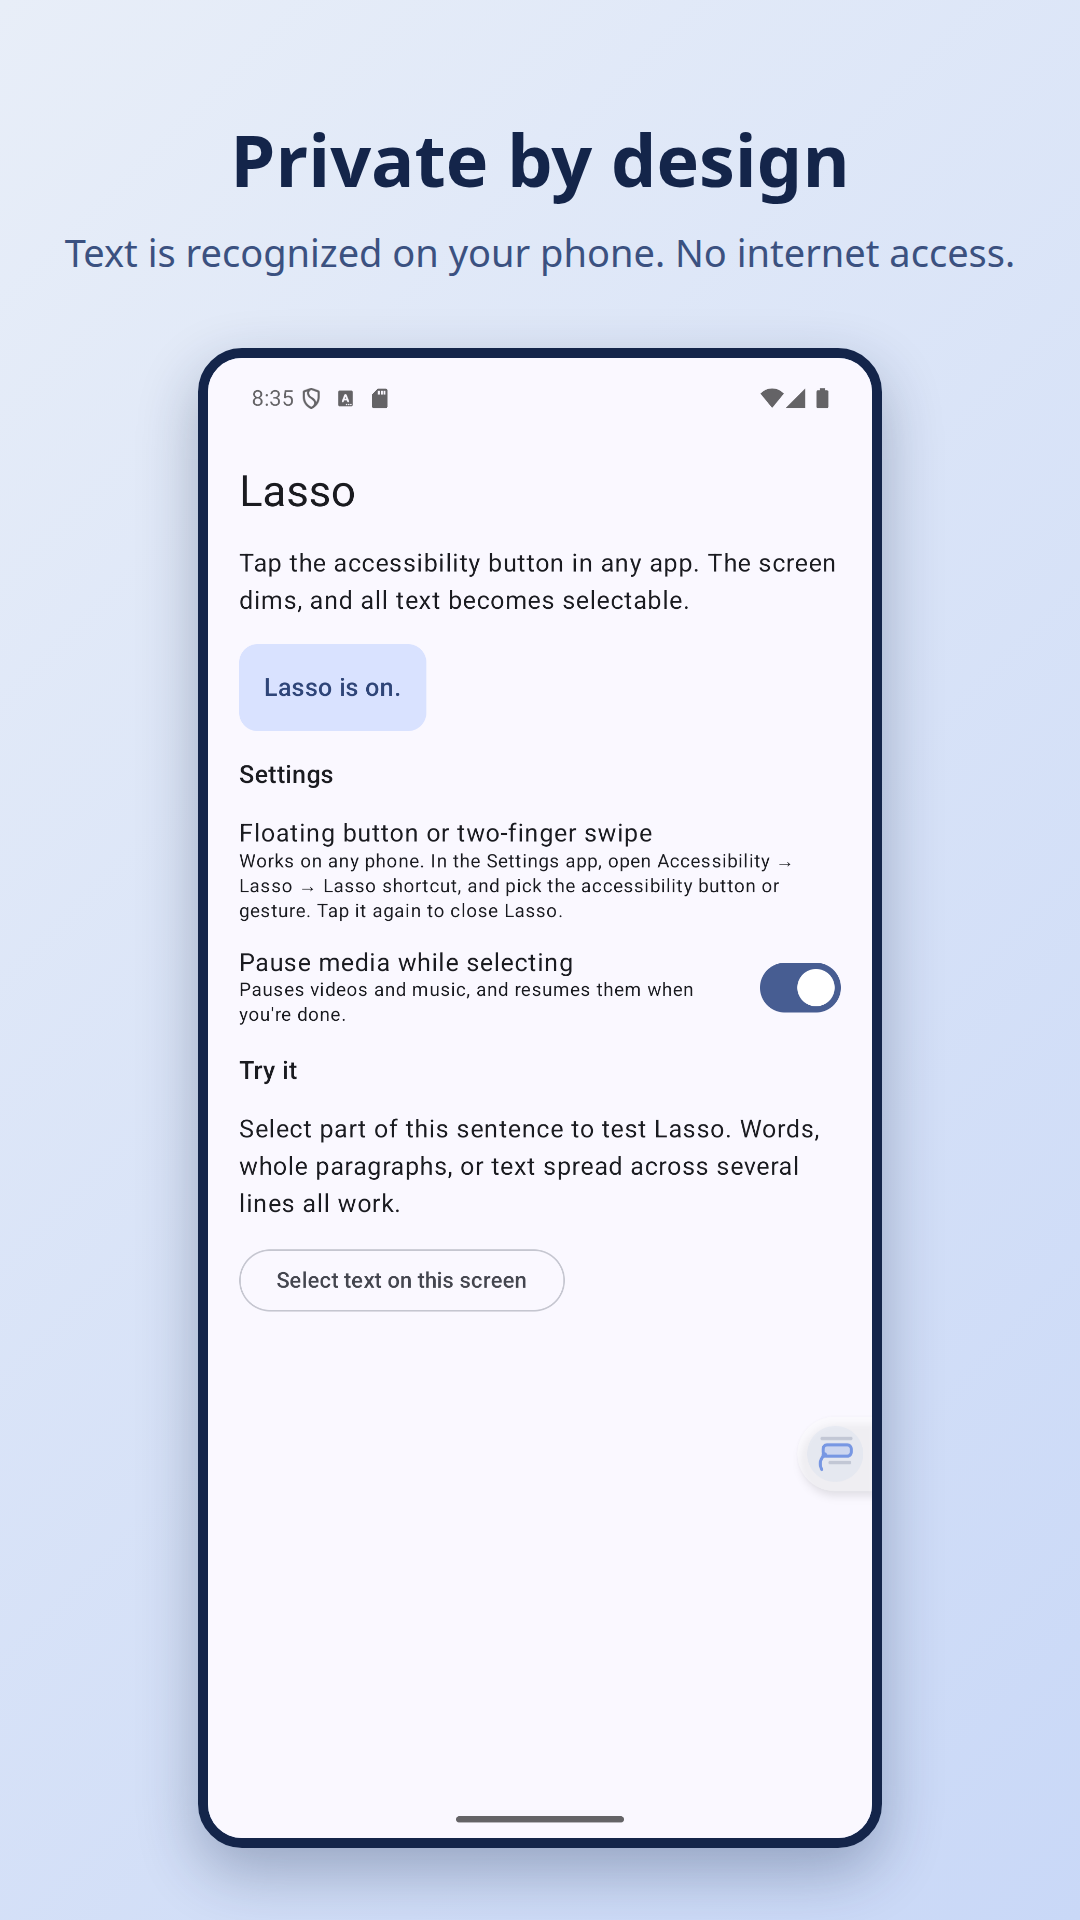
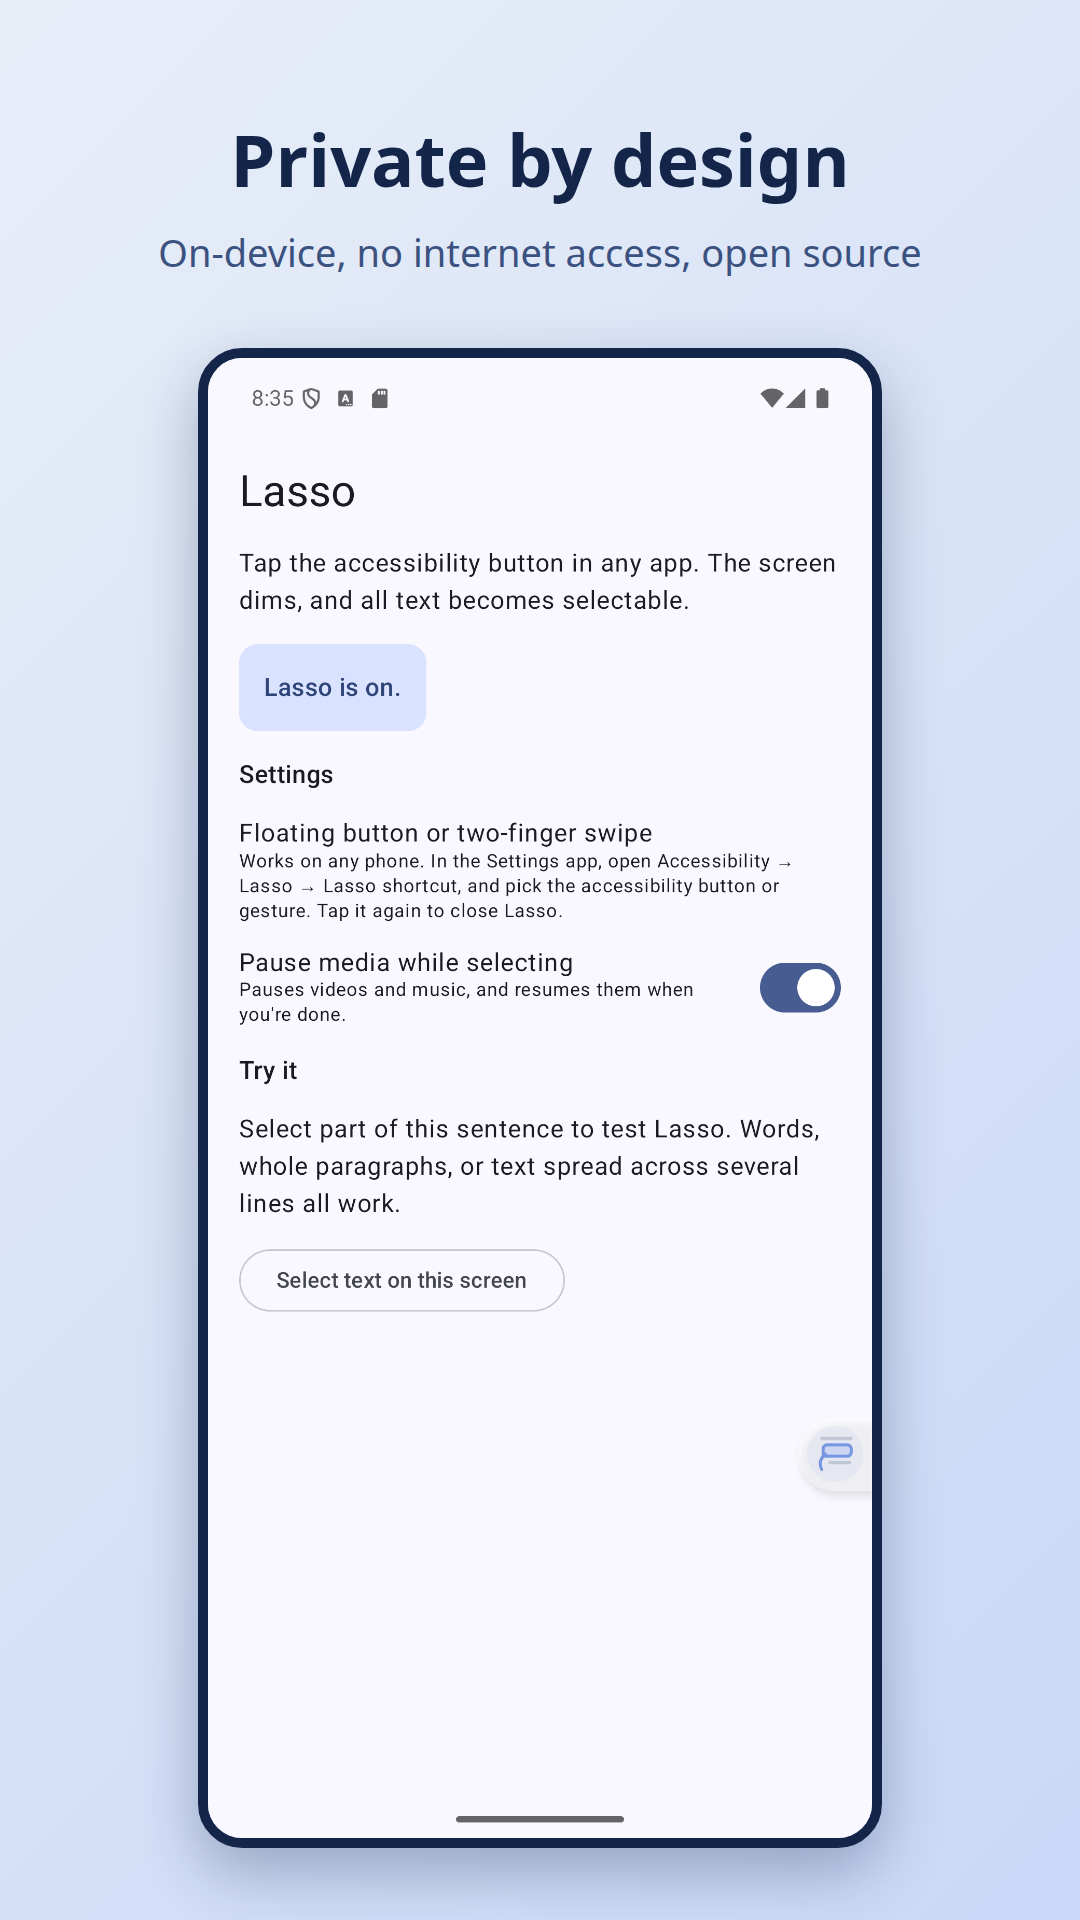
Point to the source code as proof of privacy in the Play listing

Changed region(s): [[0.0611, 0.125, 0.9167, 0.1562]]

diff --git a/play/graphics/src/render.py b/play/graphics/src/render.py
@@ -25,7 +25,7 @@ CHROME = os.environ.get("CHROME") or shutil.which("google-chrome") or shutil.whi
 SCREENSHOTS = [
     ("1.png", "Select text in any app", "Even where Android won't let you"),
     ("2.png", "Copy, share or translate", "Drag across words, adjust with handles"),
-    ("3.png", "Private by design", "Text is recognized on your phone. No internet access."),
+    ("3.png", "Private by design", "On-device, no internet access, open source"),
 ]
 
 BASE = (

diff --git a/play/listing.md b/play/listing.md
@@ -34,9 +34,7 @@ FEATURES
 • Matches your phone's colors (Material You) and dark theme
 
 PRIVATE BY DESIGN
-Lasso reads text by taking a screenshot when you open it and recognizing the text on your phone. It has no internet permission, so nothing can leave your phone. Nothing is saved. No ads, no analytics, no account.
-
-Lasso is open source: github.com/saied89/Lasso
+Lasso reads text by taking a screenshot when you open it and recognizing the text on your phone. It has no internet permission, so nothing can leave your phone. Nothing is saved. No ads, no analytics, no account. Lasso is open source, so you can check this yourself: github.com/saied89/Lasso
 
 ACCESSIBILITY SERVICE
 Lasso uses Android's accessibility service to take the screenshot when you open it, to show the selection screen over other apps, to provide the accessibility button, and to close when you press Back. It does not read other apps' content, collect data, or act on your behalf.
